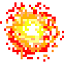
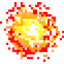
Updated explosions. Changed images of the players.

diff --git a/Player.cpp b/Player.cpp
@@ -6,7 +6,8 @@ Player::Player(int x, int y, sf::Texture t) : _x(x), _y(y), _texture(t)
 {
 	_speed = 3;
 	_size = 25;
-	_bomb = 1;
+	_hp = 1;
+	_bombAmount = 1;
 	_image = new sf::Sprite;
 	_image->setTexture(_texture);
 	_image->setPosition(_x, _y);
@@ -66,18 +67,18 @@ int Player::getSize()
 
 void Player::setBomb(int n)
 {
-	_bomb += n;
+	_bombAmount += n;
 }
 
 int Player::getBomb()
 {
-	return _bomb;
+	return _bombAmount;
 }
 
 void Player::newBomb()
 {
-	if (_bomb > 0) {
-		Bomb *B = new Bomb(_x, _y);
+	if (_bombAmount > 0) {
+		
 	
 	}
 }

diff --git a/Bomb.cpp b/Bomb.cpp
@@ -10,7 +10,8 @@ Bomb::Bomb(int x, int y) : _x(x), _y(y)
 	_image->setPosition(_x, _y);
 	_explosion = new sf::Sprite;
 	_explosion->setTexture(*ImageHolder::getInstance().getImage(Image::EXPLOSION));
-	_range = 3;
+	_explosion->setScale(0.5, 0.5);
+	_range = 2;
 	_damage = 10;
 }
 
@@ -54,5 +55,9 @@ void Bomb::setPosition(int x, int y)
 	_x = x;
 	_y = y;
 	_image->setPosition(_x, _y);
+}
 
+void Bomb::setExplosionPos(int x, int y)
+{
+	_explosion->setPosition(x, y);
 }

diff --git a/Player.h b/Player.h
@@ -12,11 +12,13 @@ private:
 	int _y;
 	int _speed;
 	int _size;
-	int _bomb;
+	int _bombAmount;
 	int _hp;
-	int score;
+	int _score;
 	sf::Texture _texture;
 	sf::Sprite *_image;
+	sf::Clock _bombClock;
+	Bomb * _bomb;
 	//std::vector<Bomb> *vec;
 public:
 	Player(int x, int y, sf::Texture t);

diff --git a/Bomb.h b/Bomb.h
@@ -21,5 +21,6 @@ public:
 	int getX();
 	int getY();
 	void setPosition(int x, int y);
+	void setExplosionPos(int x, int y);
 };
 
